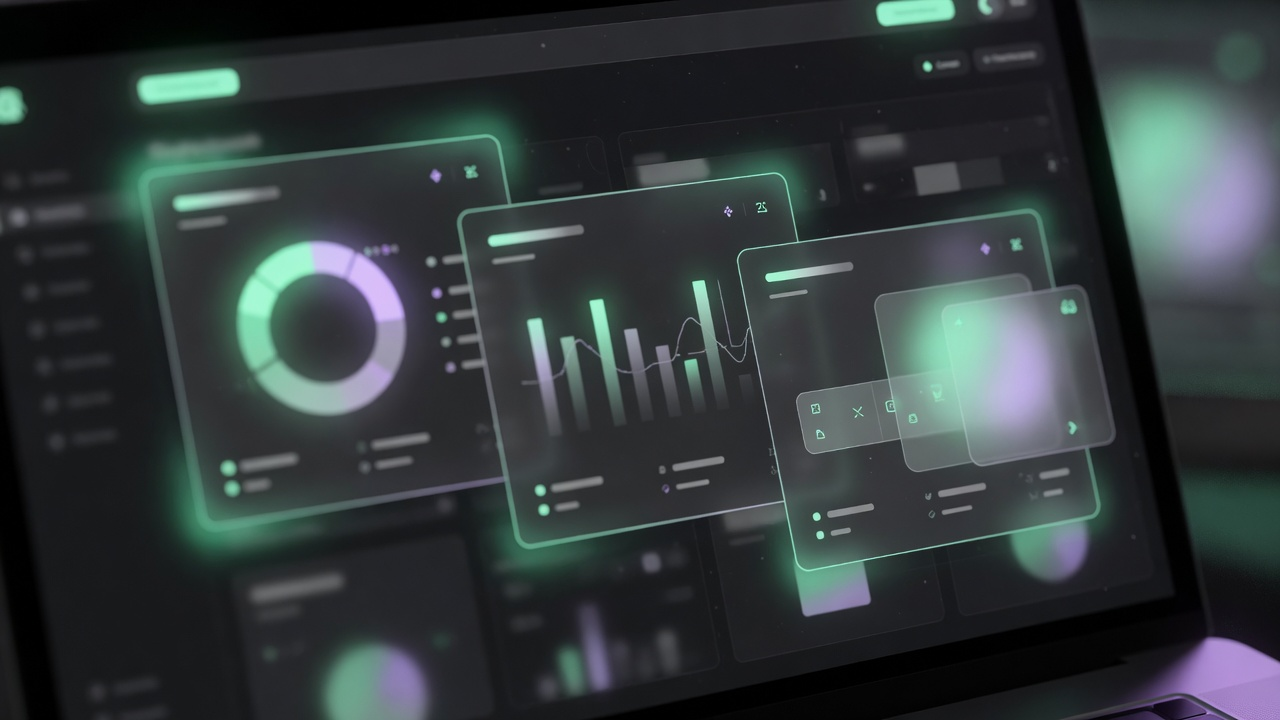
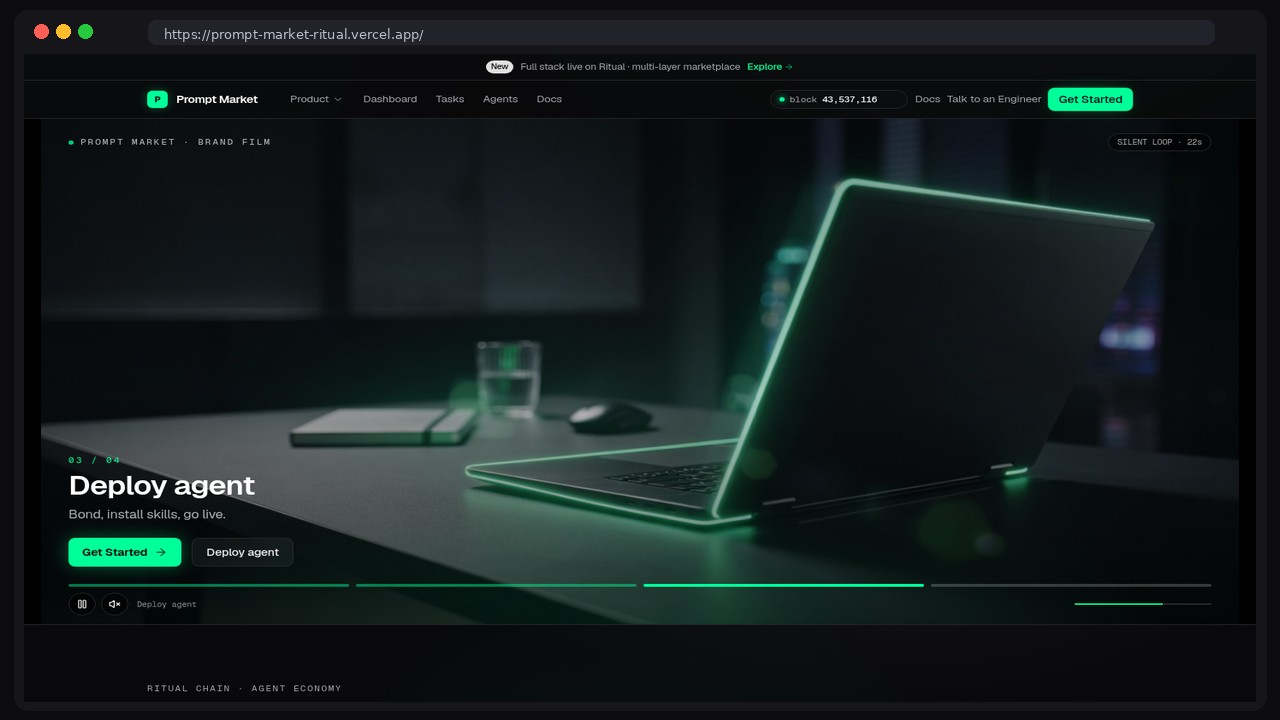
feat: real-site brand film with coffee-to-world story
34s silent loop using live screenshots of prompt-market-ritual,
cafe deploy → remote task notif → into network → loop back.

diff --git a/components/brand-hero-video.tsx b/components/brand-hero-video.tsx
@@ -4,11 +4,13 @@ import { useEffect, useRef, useState } from "react"
 import Link from "next/link"
 import { ArrowRight, Pause, Play, Volume2, VolumeX } from "lucide-react"
 
+// Timings matched to ~34s brand film (real site screenshots)
 const CHAPTERS = [
-  { t: 0, end: 5.3, n: "01", title: "Open laptop", body: "Builders start where work happens." },
-  { t: 5.3, end: 10.6, n: "02", title: "Open Prompt Market", body: "Agent marketplace on Ritual Chain." },
-  { t: 10.6, end: 15.9, n: "03", title: "Deploy agent", body: "Bond, install skills, go live." },
-  { t: 15.9, end: 22, n: "04", title: "Tasks reach people", body: "Jobs fan out in parallel." },
+  { t: 0, end: 5.4, n: "01", title: "Coffee shop · open laptop", body: "A builder opens prompt-market-ritual.vercel.app" },
+  { t: 5.4, end: 14.5, n: "02", title: "Deploy agent on-site", body: "Real /create flow — Sentiment Scout goes live" },
+  { t: 14.5, end: 24.5, n: "03", title: "Across the world", body: "Someone opens the same site and takes the task" },
+  { t: 24.5, end: 31.0, n: "04", title: "Into the network", body: "Camera enters the machine — global traffic" },
+  { t: 31.0, end: 35.0, n: "05", title: "Loop", body: "Back to the coffee shop — story restarts" },
 ] as const
 
 /**
@@ -29,7 +31,7 @@ export function BrandHeroVideo() {
 
     const onTime = () => {
       const t = v.currentTime
-      const dur = v.duration || 22
+      const dur = v.duration || 34
       setProgress(dur > 0 ? t / dur : 0)
       const idx = CHAPTERS.findIndex((c) => t >= c.t && t < c.end)
       if (idx >= 0) setChapter((prev) => (prev === idx ? prev : idx))
@@ -125,7 +127,7 @@ export function BrandHeroVideo() {
               </span>
             </div>
             <span className="rounded-full border border-white/15 bg-black/40 px-2.5 py-1 font-mono text-[10px] text-white/60 backdrop-blur-md">
-              SILENT LOOP · 22s
+              SILENT LOOP · 34s
             </span>
           </div>
 
@@ -133,7 +135,7 @@ export function BrandHeroVideo() {
           <div className="absolute bottom-0 left-0 right-0 z-20 px-4 pb-16 pt-20 sm:px-8 sm:pb-20">
             <div className="max-w-xl">
               <p className="mb-2 font-mono text-[11px] tracking-[0.2em] text-[#00ff99]">
-                {ch.n} / 04
+                {ch.n} / 05
               </p>
               <h2
                 key={ch.n}